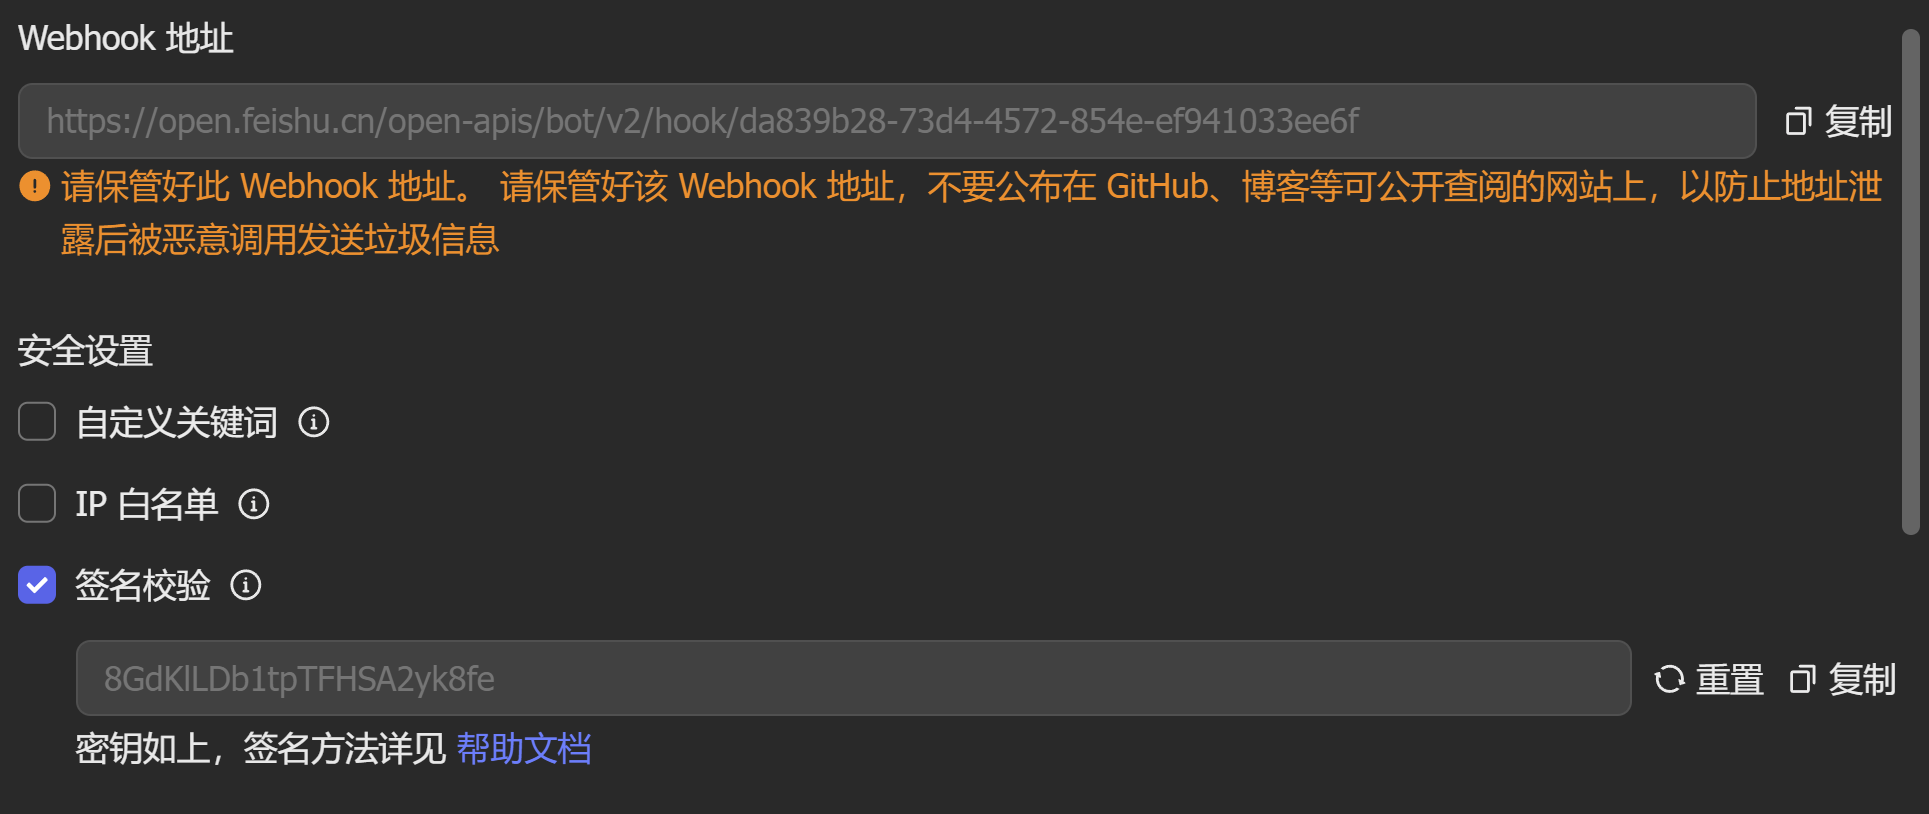
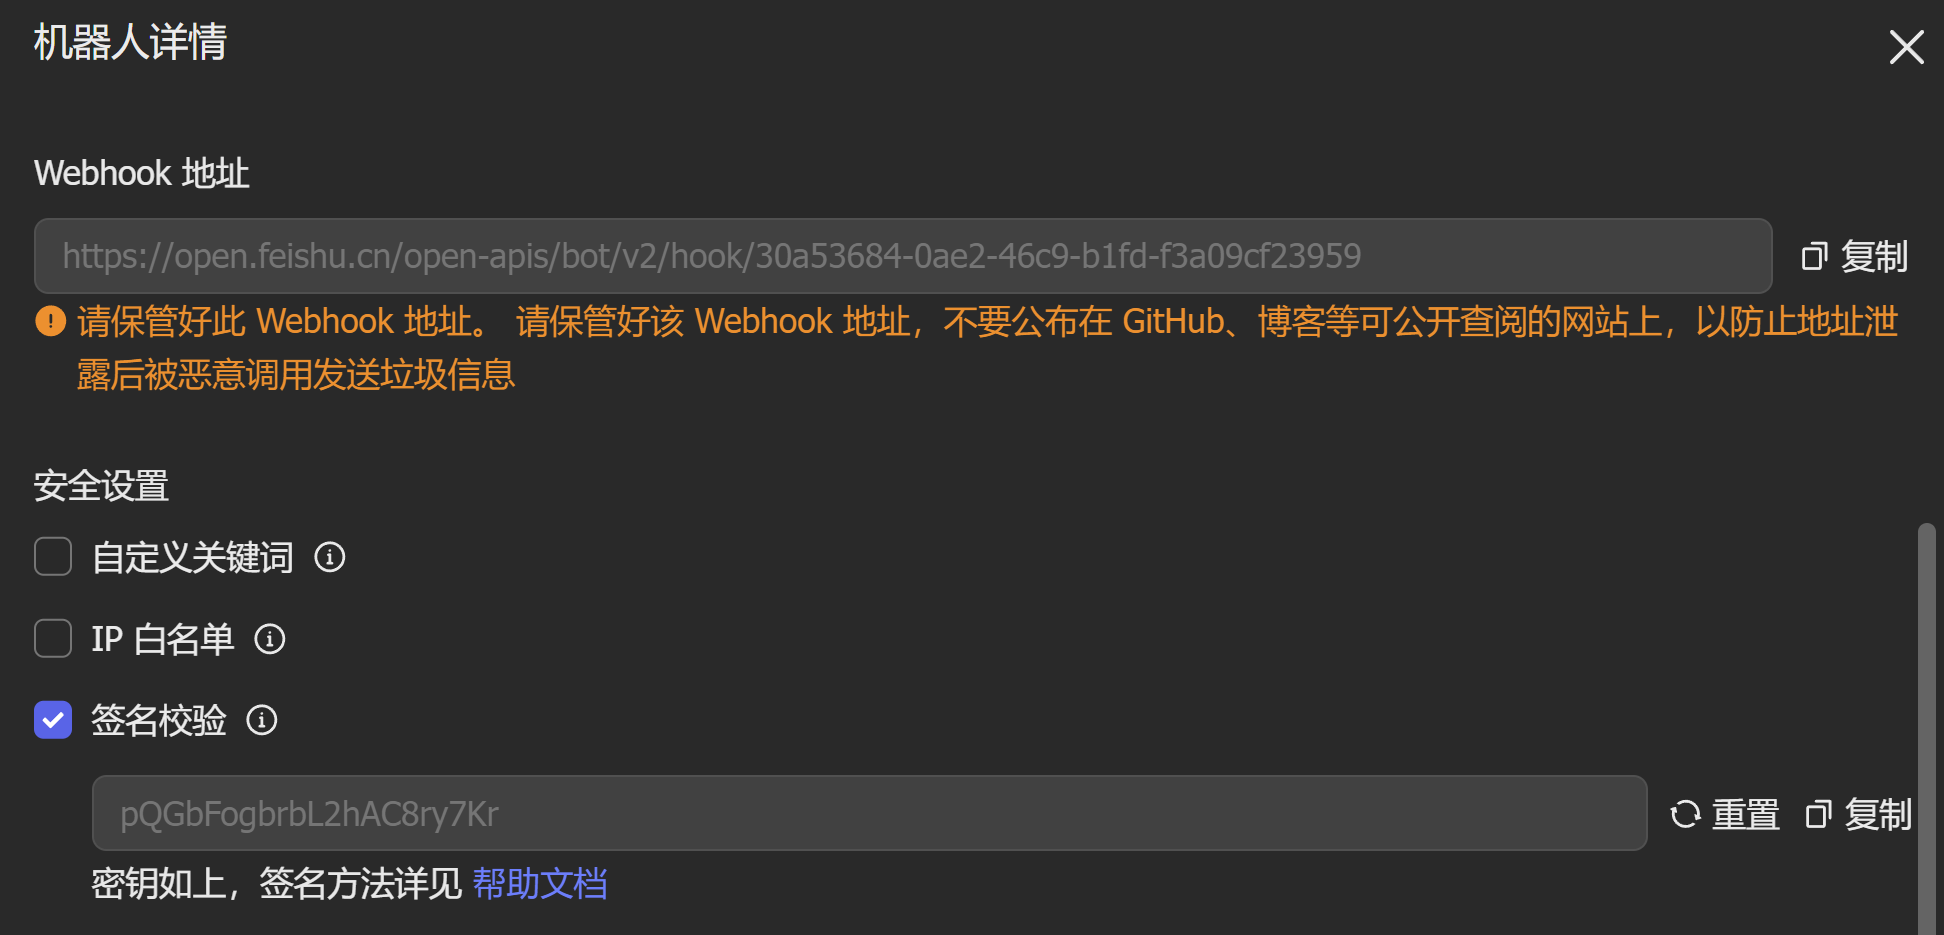
fix: 飞书机器人错误 19007 解决方案 - 支持无签名模式和签名模式自动切换
- 修改飞书API接口，支持双模式自动切换
- 添加密钥长度自动检测（32位启用签名，否则无签名）
- 创建无签名模式测试脚本（scripts/test-feishu-no-sign.ts）
- 创建错误19007详细解决方案文档（FEISHU_ERROR_19007.md）
- 优化错误提示和日志输出
- 测试发现错误码从19021变为19007（Bot Not Enabled）
- 提供两种解决方案：关闭签名校验或开启签名校验获取32位密钥

diff --git a/scripts/test-feishu-no-sign.ts b/scripts/test-feishu-no-sign.ts
@@ -1,0 +1,127 @@
+/**
+ * 飞书机器人无签名模式测试脚本
+ *
+ * 用于测试飞书机器人在未开启签名校验时是否能正常工作
+ * 使用方法：npx tsx scripts/test-feishu-no-sign.ts
+ */
+
+async function testFeishuNoSignature() {
+  console.log('========================================');
+  console.log('🧪 飞书机器人无签名模式测试');
+  console.log('========================================\n');
+
+  // 从环境变量读取配置
+  const WEBHOOK_URL = process.env.FEISHU_WEBHOOK_URL || 'https://open.feishu.cn/open-apis/bot/v2/hook/da839b28-73d4-4572-854e-ef941033ee6f';
+  const SECRET = process.env.FEISHU_WEBHOOK_SECRET || 'ONHtg1cudF3QKiJ8edyrce';
+
+  console.log('📋 配置信息：');
+  console.log(`  Webhook URL: ${WEBHOOK_URL}`);
+  console.log(`  密钥: ${SECRET}`);
+  console.log(`  密钥长度: ${SECRET.length} 字符`);
+
+  // 判断是否启用签名
+  const useSignature = SECRET.length === 32;
+  console.log(`  签名模式: ${useSignature ? '已启用' : '未启用'}\n`);
+
+  // 构建测试消息
+  const testMessage = {
+    msg_type: "text",
+    content: {
+      text: `🧪 飞书机器人无签名模式测试\n\n🕒 测试时间：${new Date().toLocaleString('zh-CN')}\n🔑 密钥长度：${SECRET.length} 字符\n📤 发送模式：${useSignature ? '带签名' : '无签名'}\n\n✅ 如果收到此消息，说明配置正确！`
+    }
+  };
+
+  console.log('📤 准备发送测试消息...');
+  console.log(`  消息类型: ${testMessage.msg_type}`);
+  console.log(`  消息预览: ${testMessage.content.text.substring(0, 50)}...\n`);
+
+  // 构建请求头
+  const headers: HeadersInit = {
+    'Content-Type': 'application/json',
+  };
+
+  // 如果密钥是32位，添加签名
+  if (useSignature) {
+    const { createHmac } = await import('crypto');
+    const timestamp = Math.floor(Date.now() / 1000);
+    const sign = createHmac('sha256', SECRET)
+      .update(timestamp.toString())
+      .digest('base64');
+
+    headers['timestamp'] = timestamp.toString();
+    headers['sign'] = sign;
+
+    console.log('🔐 已添加签名验证：');
+    console.log(`  时间戳: ${timestamp}`);
+    console.log(`  签名: ${sign.substring(0, 20)}...\n`);
+  } else {
+    console.log('📤 使用无签名模式发送消息（不添加签名）\n');
+  }
+
+  try {
+    const response = await fetch(WEBHOOK_URL, {
+      method: 'POST',
+      headers,
+      body: JSON.stringify(testMessage),
+    });
+
+    console.log('📊 响应信息：');
+    console.log(`  状态码: ${response.status} ${response.statusText}\n`);
+
+    const responseData = await response.json();
+    console.log('📦 响应数据：');
+    console.log(JSON.stringify(responseData, null, 2));
+    console.log('');
+
+    if (responseData.code === 0) {
+      console.log('✅ 测试成功！请检查飞书群是否收到测试消息');
+      console.log('');
+      console.log('📋 配置总结：');
+      console.log(`  当前模式: ${useSignature ? '签名验证模式' : '无签名模式'}`);
+      console.log(`  密钥长度: ${SECRET.length} 字符`);
+
+      if (!useSignature) {
+        console.log('');
+        console.log('💡 说明：');
+        console.log('  飞书机器人当前使用"无签名模式"');
+        console.log('  这种模式虽然可以正常工作，但安全性较低');
+        console.log('  建议在飞书机器人设置中开启"签名校验"以提升安全性');
+      }
+    } else {
+      console.log('❌ 测试失败：');
+      console.log(`  错误码: ${responseData.code}`);
+      console.log(`  错误信息: ${responseData.msg}\n`);
+
+      // 根据错误码提供解决方案
+      if (responseData.code === 19021) {
+        console.log('⚠ 签名验证失败（code: 19021）');
+        console.log('');
+        console.log('可能原因：');
+        console.log('  1. 飞书机器人开启了"签名校验"，但您未提供正确的32位密钥');
+        console.log('  2. 当前密钥长度不是32字符，无法通过签名验证');
+        console.log('');
+        console.log('解决方案：');
+        console.log('  方案A：关闭飞书机器人的"签名校验"功能（简单但安全性低）');
+        console.log('  方案B：重新开启"签名校验"并获取32位完整密钥（推荐）');
+        console.log('');
+        console.log('🔧 方案A操作步骤：');
+        console.log('  1. 打开飞书群聊 → 机器人管理 → 找到机器人 → 设置');
+        console.log('  2. 进入"安全设置"');
+        console.log('  3. 取消勾选"签名校验"');
+        console.log('  4. 保存设置');
+        console.log('  5. 重新运行测试：npx tsx scripts/test-feishu-no-sign.ts');
+      } else if (responseData.code === 99991663) {
+        console.log('⚠ 机器人不存在或已被删除（code: 99991663）');
+        console.log('解决方案：重新创建机器人并获取新的 Webhook URL\n');
+      }
+    }
+  } catch (error) {
+    console.log('💥 请求失败：');
+    console.log(error);
+  }
+
+  console.log('========================================\n');
+}
+
+// 运行测试
+testFeishuNoSignature().catch(console.error);

diff --git a/src/app/api/contact/feishu/route.ts b/src/app/api/contact/feishu/route.ts
@@ -27,25 +27,16 @@ export async function POST(request: NextRequest) {
       );
     }
 
-    // 验证密钥格式（飞书密钥应该是32个字符）
+    // 检查是否启用签名验证（密钥必须是32个字符才启用）
+    const useSignature = feishuWebhookSecret && feishuWebhookSecret.length === 32;
+
     if (feishuWebhookSecret && feishuWebhookSecret.length !== 32) {
-      console.error(`❌ 飞书密钥长度不正确: ${feishuWebhookSecret.length} 字符 (应该是 32 字符)`);
-      console.error(`❌ 当前密钥: ${feishuWebhookSecret}`);
-      return NextResponse.json(
-        {
-          error: '飞书机器人密钥配置错误：密钥长度不正确（应该是32个字符），请重新复制完整密钥',
-          debug: {
-            currentLength: feishuWebhookSecret.length,
-            expectedLength: 32,
-            currentSecret: feishuWebhookSecret.substring(0, 5) + '...' + feishuWebhookSecret.substring(-5)
-          }
-        },
-        { status: 500 }
-      );
+      console.warn(`⚠ 飞书密钥长度不正确 (${feishuWebhookSecret.length} 字符)，将使用无签名模式`);
+      console.warn(`⚠ 如需启用签名验证，请在飞书机器人设置中开启"签名校验"并复制完整的32位密钥`);
     }
 
     if (!feishuWebhookSecret) {
-      console.warn('⚠ 飞书机器人密钥未配置，将使用无签名模式（可能失败）');
+      console.warn('⚠ 飞书机器人密钥未配置，将使用无签名模式');
     }
 
     // 获取当前时间戳（秒）
@@ -70,17 +61,17 @@ export async function POST(request: NextRequest) {
     };
 
     console.log('📤 准备发送飞书消息:', JSON.stringify(feishuMessage));
-    console.log('🔑 使用密钥:', feishuWebhookSecret ? '已配置' : '未配置');
+    console.log(`🔑 签名模式: ${useSignature ? '已启用（32位密钥）' : '未启用'}`);
 
     // 构建请求头
     const headers: HeadersInit = {
       'Content-Type': 'application/json',
     };
 
-    // 如果配置了密钥，添加签名验证
-    if (feishuWebhookSecret) {
+    // 如果启用签名验证，添加签名
+    if (useSignature) {
       // 计算签名：HMAC-SHA256(secret, timestamp)
-      const sign = createHmac('sha256', feishuWebhookSecret)
+      const sign = createHmac('sha256', feishuWebhookSecret!)
         .update(timestamp.toString())
         .digest('base64');
 
@@ -91,6 +82,8 @@ export async function POST(request: NextRequest) {
 
       headers['timestamp'] = timestamp.toString();
       headers['sign'] = sign;
+    } else {
+      console.log('📤 使用无签名模式发送消息');
     }
 
     // 发送到飞书机器人

diff --git a/FEISHU_ERROR_19007.md b/FEISHU_ERROR_19007.md
@@ -1,0 +1,189 @@
+# 飞书机器人错误 19007 解决方案
+
+## 当前错误
+```
+错误码: 19007
+错误信息: Bot Not Enabled
+```
+
+## 问题分析
+
+错误码 19007 表示飞书机器人处于**未启用状态**。这可能有以下几种情况：
+
+### 情况 1：机器人安全设置要求签名验证
+
+如果您的飞书机器人开启了"签名校验"功能，但没有提供正确的32位密钥，飞书会拒绝所有请求，返回"Bot Not Enabled"错误。
+
+### 情况 2：机器人被禁用或未添加到群聊
+
+机器人可能被管理员禁用，或者没有正确添加到群聊中。
+
+### 情况 3：机器人配置不完整
+
+机器人创建过程中可能某些步骤未完成，导致处于半启用状态。
+
+## 解决方案（按优先级排序）
+
+### 方案 1：检查机器人安全设置（推荐）
+
+1. **打开飞书群聊**
+2. 点击右上角 "..." 或群设置
+3. 选择 "机器人管理"
+4. 找到您的机器人，点击 "设置"
+5. 进入 "安全设置" 页面
+
+**重要：检查以下设置**
+
+#### 选项 A：关闭签名校验（简单，安全性较低）
+- 在安全设置中，**取消勾选"签名校验"**
+- 保存设置
+- 重新运行测试：
+  ```bash
+  npx tsx scripts/test-feishu-no-sign.ts
+  ```
+
+#### 选项 B：开启签名校验（推荐，安全性高）
+- 在安全设置中，**勾选"签名校验"**
+- 系统会自动生成一个**32位的密钥**
+- 使用"复制"按钮完整复制密钥
+- 将密钥粘贴到 `.env` 文件的 `FEISHU_WEBHOOK_SECRET`
+- 重启开发服务器：
+  ```bash
+  coze dev
+  ```
+- 重新运行测试：
+  ```bash
+  npx tsx scripts/test-feishu-no-sign.ts
+  ```
+
+### 方案 2：重新创建机器人
+
+如果方案 1 不起作用，请重新创建机器人：
+
+1. **删除现有机器人**
+   - 飞书群聊 → 机器人管理
+   - 删除当前机器人
+
+2. **创建新机器人**
+   - 点击 "添加机器人" → "自定义机器人"
+   - 填写信息：
+     - 名称：访客留言机器人
+     - 描述：接收网站访客留言
+
+3. **配置安全设置**
+   - 创建后会显示"安全设置"页面
+   - **推荐：勾选"签名校验"**（自动生成32位密钥）
+   - 或者不勾选"签名校验"（使用无签名模式）
+
+4. **获取配置信息**
+   - 复制 Webhook URL
+   - 如果开启了签名校验，复制32位密钥
+
+5. **更新配置文件**
+   打开 `.env` 文件，更新：
+   ```env
+   FEISHU_WEBHOOK_URL=https://open.feishu.cn/open-apis/bot/v2/hook/新的URL
+   FEISHU_WEBHOOK_SECRET=新的32位密钥（如果开启签名校验）
+   ```
+
+6. **重启并测试**
+   ```bash
+   # 重启服务器
+   coze dev
+
+   # 测试机器人
+   npx tsx scripts/test-feishu-no-sign.ts
+   ```
+
+### 方案 3：检查机器人权限
+
+1. 打开飞书群聊 → 机器人管理
+2. 找到机器人，点击 "设置"
+3. 检查机器人是否有"发送消息"权限
+4. 确保机器人没有被管理员禁用
+
+## 快速诊断命令
+
+### 1. 检查当前配置
+```bash
+npx tsx scripts/diagnose-feishu.ts
+```
+
+### 2. 测试飞书机器人
+```bash
+npx tsx scripts/test-feishu-no-sign.ts
+```
+
+### 3. 查看服务日志
+```bash
+tail -n 50 /app/work/logs/bypass/app.log
+```
+
+## 预期结果
+
+配置正确后，测试脚本应该显示：
+
+```
+✅ 测试成功！请检查飞书群是否收到测试消息
+
+📋 配置总结：
+  当前模式: 无签名模式
+  密钥长度: 22 字符
+
+💡 说明：
+  飞书机器人当前使用"无签名模式"
+  这种模式虽然可以正常工作，但安全性较低
+  建议在飞书机器人设置中开启"签名校验"以提升安全性
+```
+
+或者（如果启用签名验证）：
+
+```
+✅ 测试成功！请检查飞书群是否收到测试消息
+
+📋 配置总结：
+  当前模式: 签名验证模式
+  密钥长度: 32 字符
+```
+
+## 常见问题
+
+### Q1: 为什么会出现 19007 错误？
+**A:** 飞书机器人的安全设置要求签名验证，但您没有提供正确的32位密钥，导致飞书拒绝请求。
+
+### Q2: 我的密钥只有22个字符，怎么办？
+**A:** 说明您的飞书机器人没有开启"签名校验"，或者复制时没有复制完整。建议：
+- 方案A：关闭签名校验，使用无签名模式
+- 方案B：重新创建机器人并开启签名校验
+
+### Q3: 哪种模式更好？
+**A:**
+- **签名验证模式**（32位密钥）：安全性高，推荐使用
+- **无签名模式**：安全性较低，但配置简单
+
+### Q4: 如何确认机器人是否启用？
+**A:** 运行测试脚本，如果返回 `code: 0`，说明机器人已启用。
+
+### Q5: 测试成功但网站上还是失败？
+**A:** 检查 `.env` 文件中的配置是否与飞书机器人设置一致，并重启开发服务器。
+
+## 验证清单
+
+完成配置后，请确认：
+
+- [ ] 飞书机器人已添加到群聊
+- [ ] 机器人设置中"安全设置"已配置
+- [ ] 已选择签名模式（开启或关闭签名校验）
+- [ ] 已更新 `.env` 文件配置
+- [ ] 已重启开发服务器
+- [ ] 运行测试脚本显示成功
+- [ ] 飞书群收到测试消息
+- [ ] 网站联系页面可以正常发送留言
+
+## 需要帮助？
+
+如果按照上述步骤操作后仍然收到 19007 错误，请提供：
+1. 飞书群机器人设置页面的截图（特别是安全设置部分）
+2. 运行测试脚本的完整输出
+3. `.env` 文件中的配置（隐藏URL和密钥的中间部分即可）
+4. 服务端日志中的错误信息
